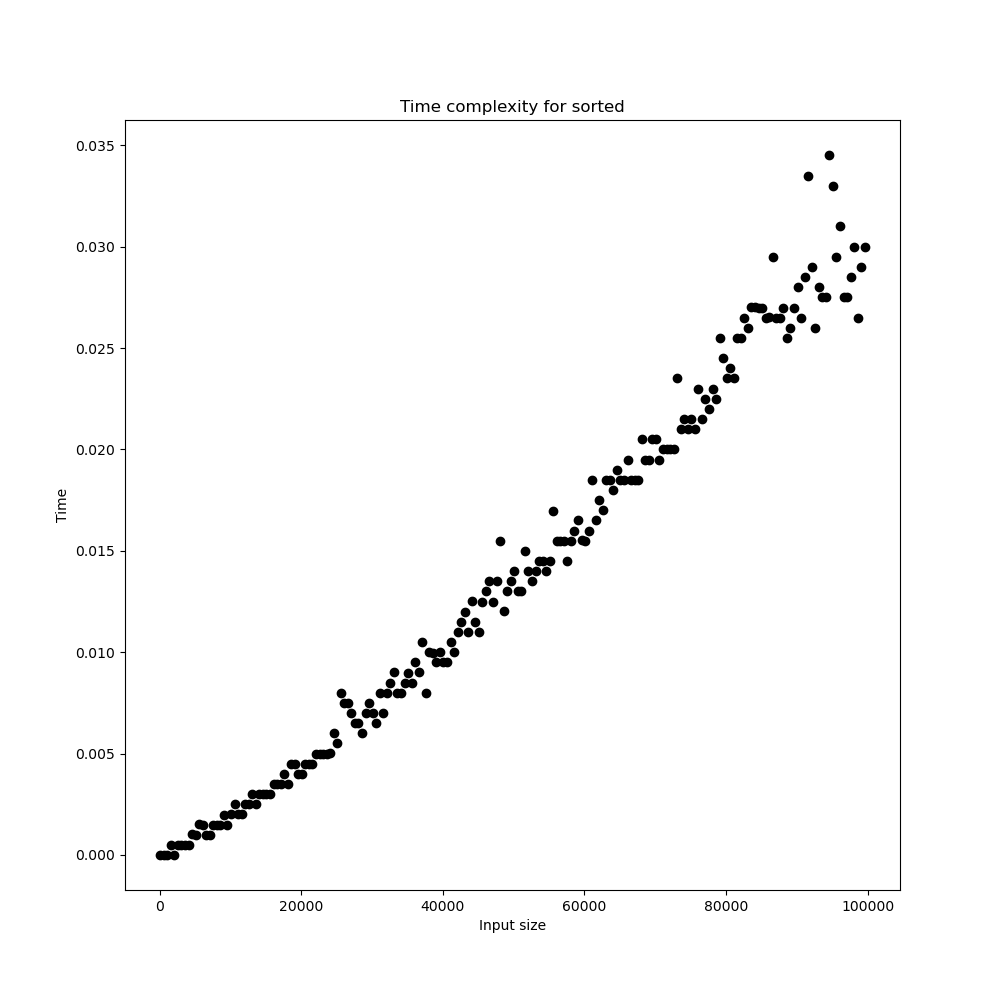
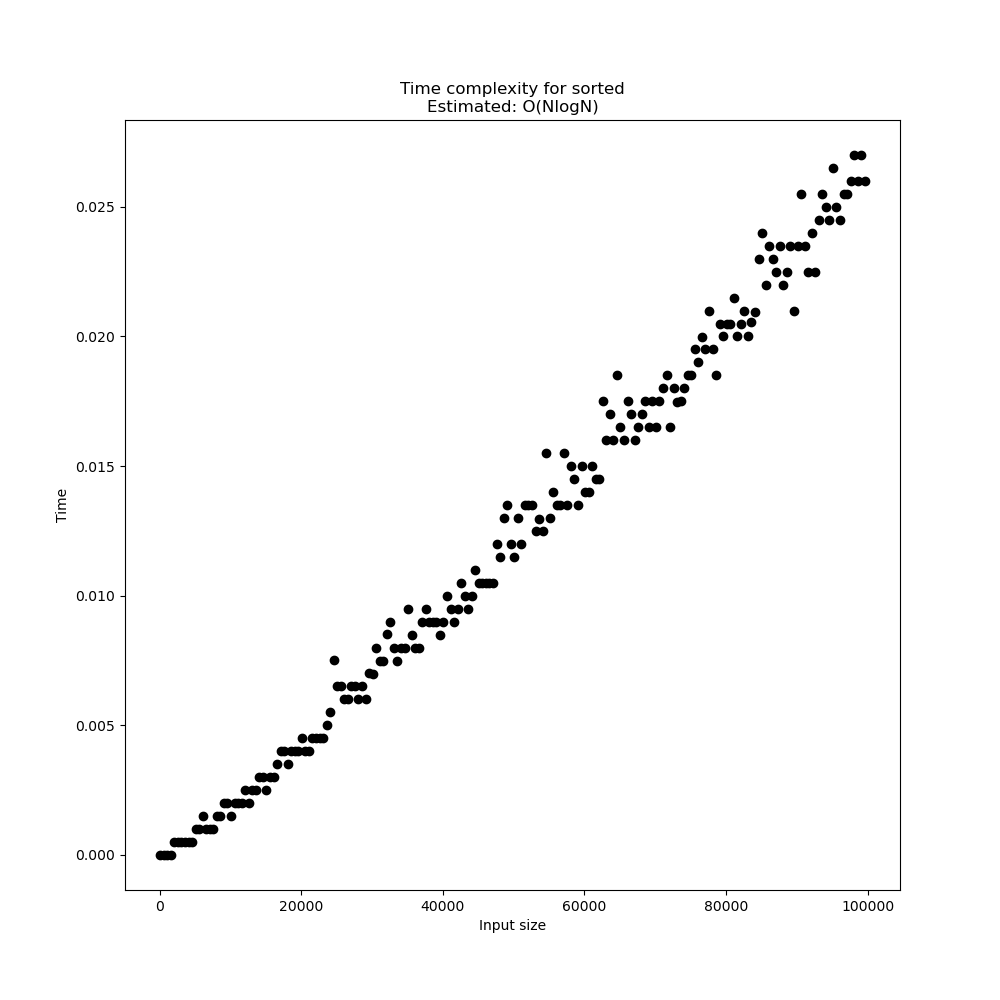
Add the estimated time complexity to the graph output by the plotter.

diff --git a/basic_time_complexity_plotter/complexity_class_estimator.py b/basic_time_complexity_plotter/complexity_class_estimator.py
@@ -55,15 +55,16 @@ class ComplexityEstimator:
     def __init__(self):
         pass
 
-    def estimate_complexity(self, input_sizes: List[float], outputs: List[float]) -> str:
+    @staticmethod
+    def estimate_complexity(input_sizes: List[float], runtimes: List[float]) -> str:
         errors = dict()
         input_sizes = np.array(input_sizes)
-        outputs = np.array(outputs)
+        runtimes = np.array(runtimes)
         for compl_class, func in ComplexityEstimator.CLASSES.items():
             try:
-                params, _ = curve_fit(func, input_sizes, outputs)
+                params, _ = curve_fit(func, input_sizes, runtimes)
                 preds = func(input_sizes, *params)
-                mean_squared_error = np.mean((preds-outputs)**2)
+                mean_squared_error = np.mean((preds-runtimes)**2)
                 errors[compl_class] = mean_squared_error
             except Exception as e:
                 print(e)

diff --git a/basic_time_complexity_plotter/time_complexity_plotter.py b/basic_time_complexity_plotter/time_complexity_plotter.py
@@ -3,6 +3,7 @@ import time
 import matplotlib.pyplot as plt
 from typing import Callable, Generator, List, Any
 from functools import partial
+from complexity_class_estimator import ComplexityEstimator
 
 class Plotter:
     """
@@ -53,7 +54,7 @@ class Plotter:
         # Generate + save the plot.
         plt.figure(figsize=(10, 10))
         plt.scatter(input_sizes, run_times, color='black')
-        plt.title('Time complexity for ' + self.func.__name__)
+        plt.title('Time complexity for ' + self.func.__name__ + '\nEstimated: ' + ComplexityEstimator.estimate_complexity(input_sizes, run_times))
         plt.xlabel('Input size')
         plt.ylabel('Time')
         plt.savefig(self.save_path + self.fig_name)
